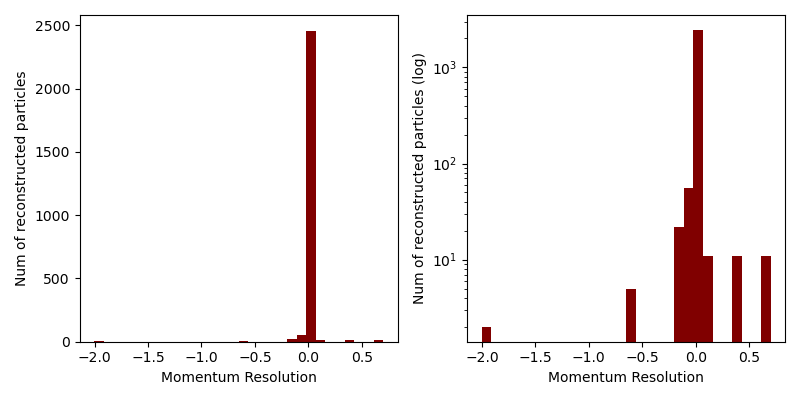
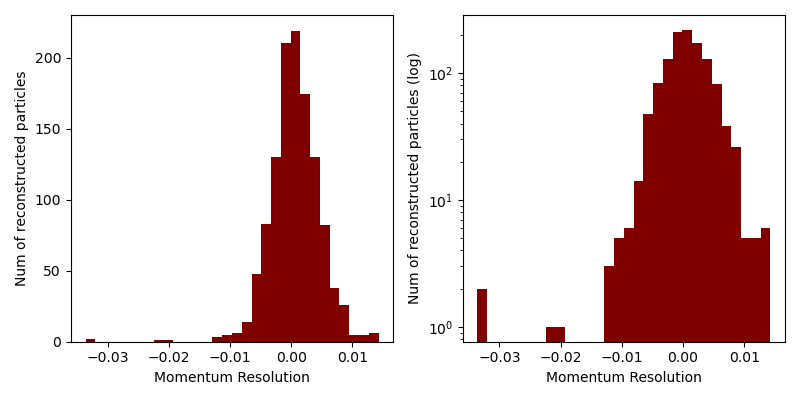
finished checkpoint

diff --git a/week-17/GeantExample3/bin/plot_figures.py b/week-17/GeantExample3/bin/plot_figures.py
@@ -99,7 +99,7 @@ def calculate_momentum(theta, phi1, phi2,):
     return transverse_momentum, total_momentum
 
 
-def find_mc_truth(truth_df, tracker_df, tracker_hit_idx):
+def find_mc_truth(truth_df, tracker_df, tracker_hit_idx, skiphits=[]):
     """
     Find the corresponding mc truth data for a hit from a tracker
     """
@@ -112,6 +112,9 @@ def find_mc_truth(truth_df, tracker_df, tracker_hit_idx):
     
     # Iterate over mc truth hits in event to match tracker hit with mc truth hits
     for mc_hit_idx, mc_truth_hit in mc_truth_hits.iterrows():
+        # Skip if hit has already been matched
+        if mc_hit_idx in skiphits:
+            continue
         # Check if theta hits are from same particle
         if math.fabs(mc_truth_hit["Theta"] - tracker_hit["Theta"]) < 1e-4:
             # Return idx of truth data
@@ -126,34 +129,52 @@ def find_truth_momentum(truth_df, track_df, hit_pair_idx, track_momenta,):
     Create a list containing the truth and detected momenta from the Geant4 simulation
     """
 
-    # Flatten the hit pair and track momenta list since we do not care about event numbers
-    hit_pair_idx    = flatten_list(hit_pair_idx)
-    track_momenta   = flatten_list(track_momenta)
-    
     # Create empty lists for hit momenta and mc truth momenta
-    hit_momenta = []
-    truth_momenta = []
+    hit_momenta = [ [] for _ in range(NUM_EVENTS) ]
+    truth_momenta = [ [] for _ in range(NUM_EVENTS) ]
 
-    # Loop over all  
-    for hit_idx, track_momentum in zip(hit_pair_idx, track_momenta):
-        # Find the idx for the matching truth idx
-        truth_idx = find_mc_truth(truth_df, track_df, hit_idx[0])
-        # Append momenta to lists only if matching truth hit was found
-        if truth_idx is not None:
-            # Append tracker hit momentum
-            hit_momenta.append(track_momentum[-1])
-            # Append truth momentum
-            truth_momenta.append(truth_df.iloc[truth_idx]["Momentum"])
+    for event_idx in range(NUM_EVENTS):
+        # List to contain the truth hit idx which have been matched
+        matched_truth_hit_idx = []
+        
+        # Loop over all  
+        for hit_idx, track_momentum in zip(hit_pair_idx[event_idx], track_momenta[event_idx]):
+            # Find the idx for the matching truth idx
+            truth_idx = find_mc_truth(truth_df, track_df, hit_idx[0], matched_truth_hit_idx)
+            # Append momenta to lists only if matching truth hit was found
+            if truth_idx is not None:
+                # Append truth idx to matched hit idx
+                matched_truth_hit_idx.append(truth_idx)
+                # Append tracker hit momentum
+                hit_momenta[event_idx].append(track_momentum[-1])
+                # Append truth momentum
+                truth_momenta[event_idx].append(truth_df.iloc[truth_idx]["Momentum"])
     
-    return np.array(hit_momenta), np.array(truth_momenta)
+    # Remove empty tuples in list
+    hit_momenta = [momenta_list for momenta_list in hit_momenta if len(momenta_list)>0]
+    truth_momenta = [momenta_list for momenta_list in truth_momenta if len(momenta_list)>0]
+
+    # # Flatten truth and hit momenta
+    # hit_momenta, truth_momenta = flatten_list(hit_momenta), flatten_list(truth_momenta)
+    
+    return hit_momenta, truth_momenta
 
 
 def plot_momentum_resolution(hit_momenta, truth_momenta):
     """
     Create a plot containing the momentum resolution distribution of the tracker in the simulation
     """
+    
+    # Flatten momenta lists
+    hit_momenta = np.array(flatten_list(hit_momenta))
+    truth_momenta = np.array(flatten_list(truth_momenta))
 
+    # Compute the momenta resolution
     momenta_resolution = (hit_momenta-truth_momenta) / truth_momenta
+
+    # Mask any momenta resolution anomalies due to are occasions when a track curves across the boundary between
+    # -pi and pi
+    momenta_resolution = momenta_resolution[momenta_resolution>-1.0]
 
     fig, (ax1, ax2) = plt.subplots(1, 2, figsize=(8, 4)) 
 
@@ -176,6 +197,37 @@ def plot_momentum_resolution(hit_momenta, truth_momenta):
     fig.savefig(IMAGE_OUTDIR + "momentum_resolution_hist.png")
 
 
+def plot_mass_distribution(hit_momenta):
+    """
+    Create a plot containing the mass distribution of the tracker in the simulation
+    """
+
+    # Compute initial energy of event
+    event_init_energy = [sum(np.abs(np.array(momenta_list))) for momenta_list in hit_momenta]
+
+    fig, (ax1, ax2) = plt.subplots(1, 2, figsize=(8, 4)) 
+
+    # Plot histogram w/o log scale
+    ax1.hist(event_init_energy, 30, color="maroon", log=False)
+    ax1.set(
+        xlabel = "Total reconstructed energy (GeV)",
+        ylabel = "Num of reconstructed particles",
+        xticks = np.arange(0, 100, 10)
+    )
+    # Plot histogram w/ log scale
+    ax2.hist(event_init_energy, 30, color="maroon", log=True)
+    ax2.set(
+        xlabel = "Total reconstructed energy (GeV)",
+        ylabel = "Num of reconstructed particles (log)",
+        xticks = np.arange(0, 100, 10)
+    )
+
+    plt.tight_layout()
+    
+    # Save the plot
+    fig.savefig(IMAGE_OUTDIR + "mass_distribution.png")
+
+
 # Read csv files
 truth_df = pd.read_csv(TRUTH2_FILENAME, comment="#", names=["EventID", "Phi", "Theta", "Momentum"])
 tracker1_df = pd.read_csv(TRACKER1_FILENAME, comment="#", names=["EventID", "Phi", "Theta"])
@@ -192,3 +244,6 @@ hit_momenta, truth_momenta = find_truth_momentum(truth_df, tracker1_df, hit_pair
 
 # Plot the momentum resolution
 plot_momentum_resolution(hit_momenta, truth_momenta)
+
+# Plot the mass distributiuon
+plot_mass_distribution(hit_momenta)

diff --git a/week-17/README.md b/week-17/README.md
@@ -40,3 +40,4 @@ To create the mass distibution plots, run the following command:
 python bin/plot_figures.py
 ```
 
+From the mass distribution, we see that the mean initial energy of the interaction inside the detector was centered at $\sim 90 GeV$, which coinsides with the rest mass of the Z-boson. Hence the interaction that was simulated was likely the decay of a Z boson via NC channel int a mu+mu-.
